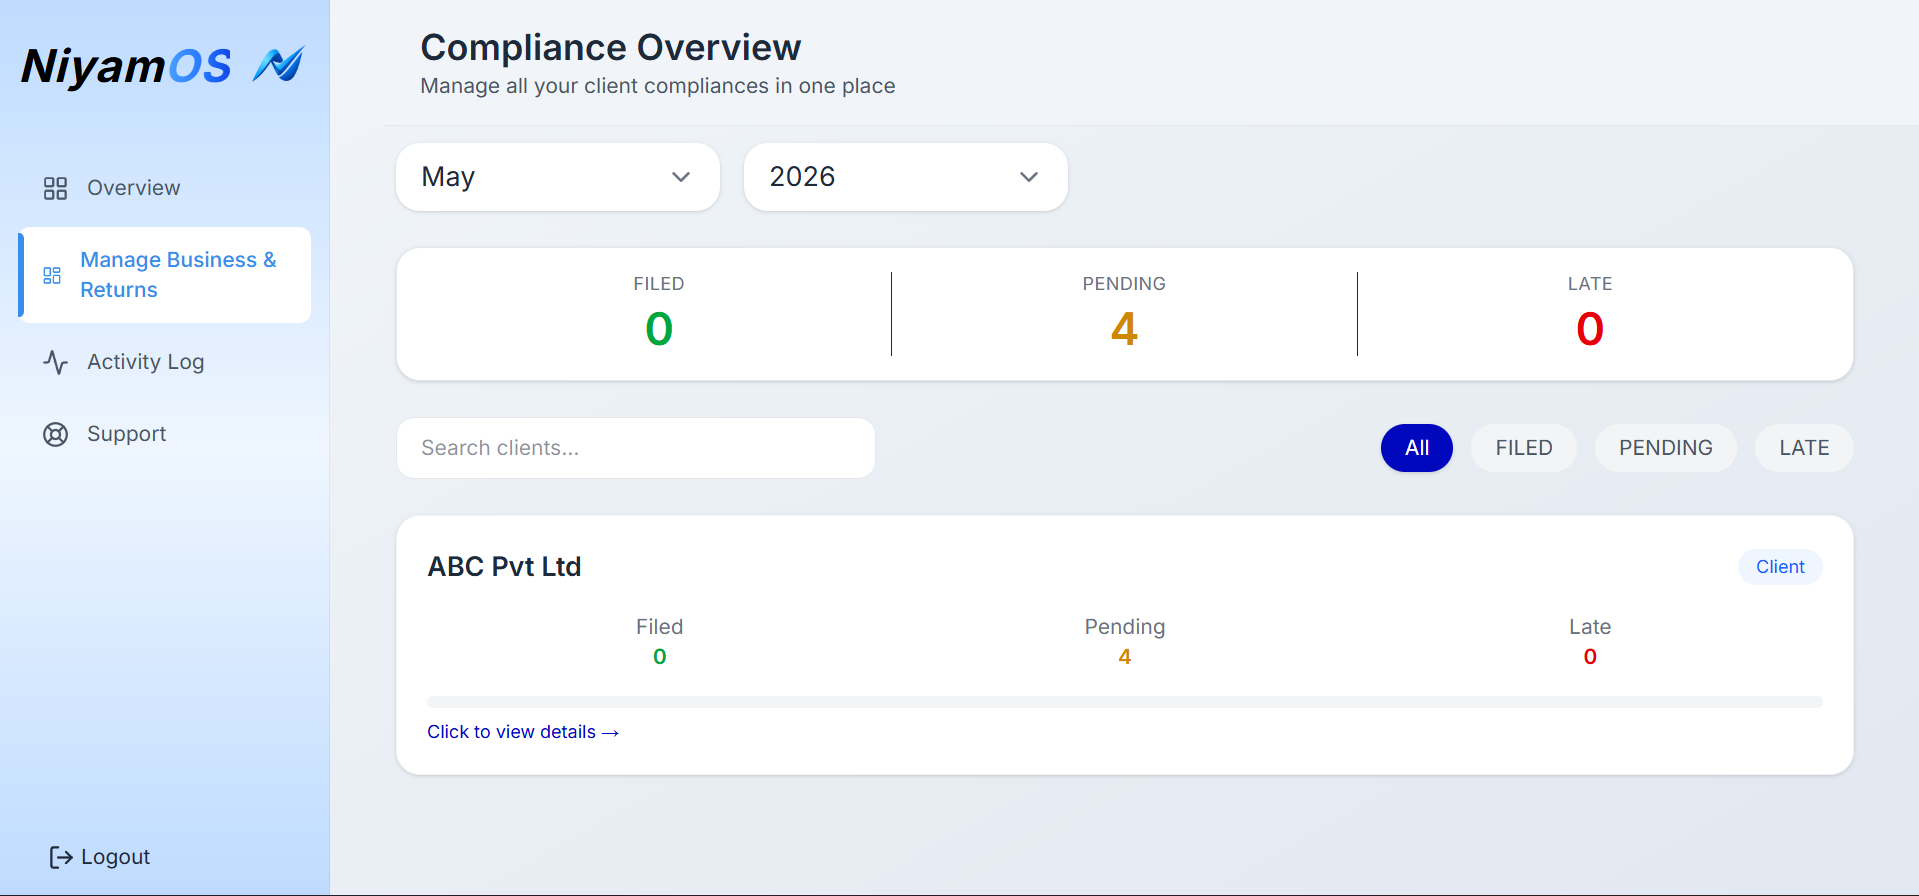
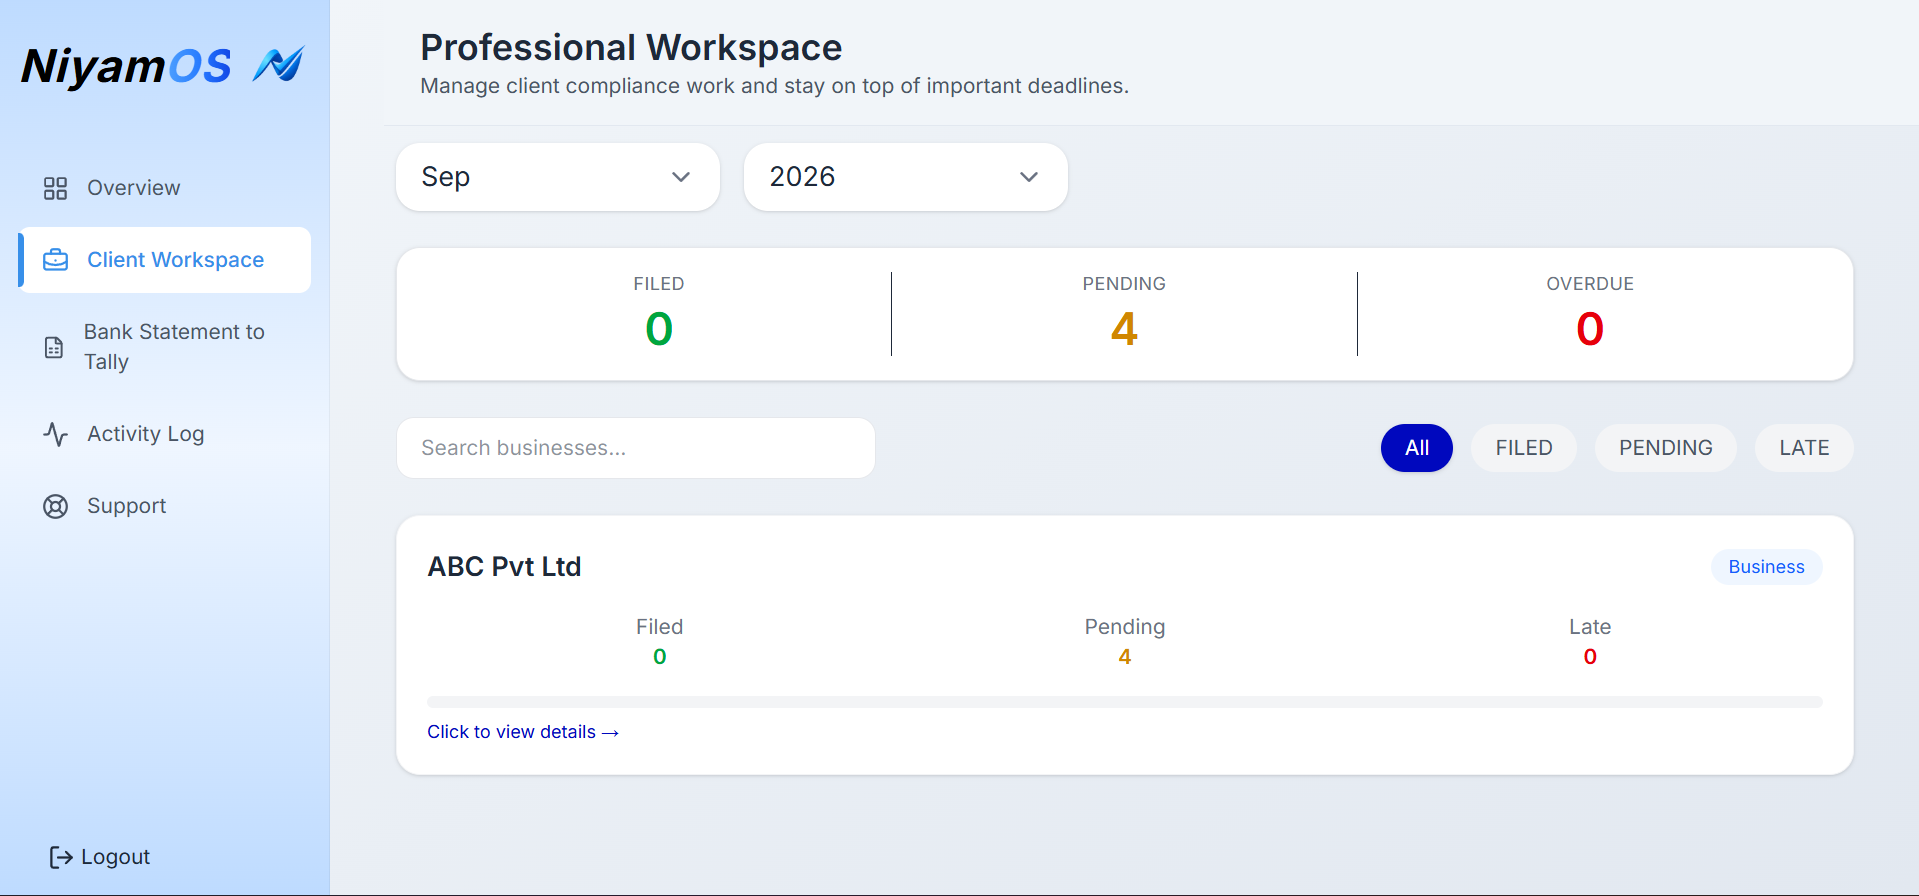
updated project

diff --git a/src/assets/assets.js b/src/assets/assets.js
@@ -141,8 +141,7 @@ export const projects = [
   },
   {
     title: "NiyamOS",
-    description:
-      "NiyamOS is a full-stack compliance management platform that helps businesses manage compliance workflows, documents, user communication, and support operations. Built using React, Node.js, Express, and PostgreSQL, it features secure JWT authentication, role-based access control, document management, audit logs, email notifications via Resend, error monitoring with Sentry, and production deployment on a custom domain.",
+    description:"NiyamOS is a full-stack business management platform that helps businesses and Chartered Accountants manage compliance, documents, communication, and financial records in one place. It includes compliance tracking, document management, reminders, customer and supplier management, sales invoices, purchase bills, expense tracking, payment records, receivables, payables, and follow-up management. Built using React, Node.js, Express, and PostgreSQL, it features secure JWT authentication, role-based access control, audit logs, email notifications through Resend, error monitoring with Sentry, and production deployment on a custom domain. Upcoming features include advanced financial management and AI-powered business automation.",
     image: projectImg4,
     tech: ["React.js", "Tailwind CSS", "Node.js", "Express", "PostgreSQL"],
     icons: [FaReact, FaCloud],
